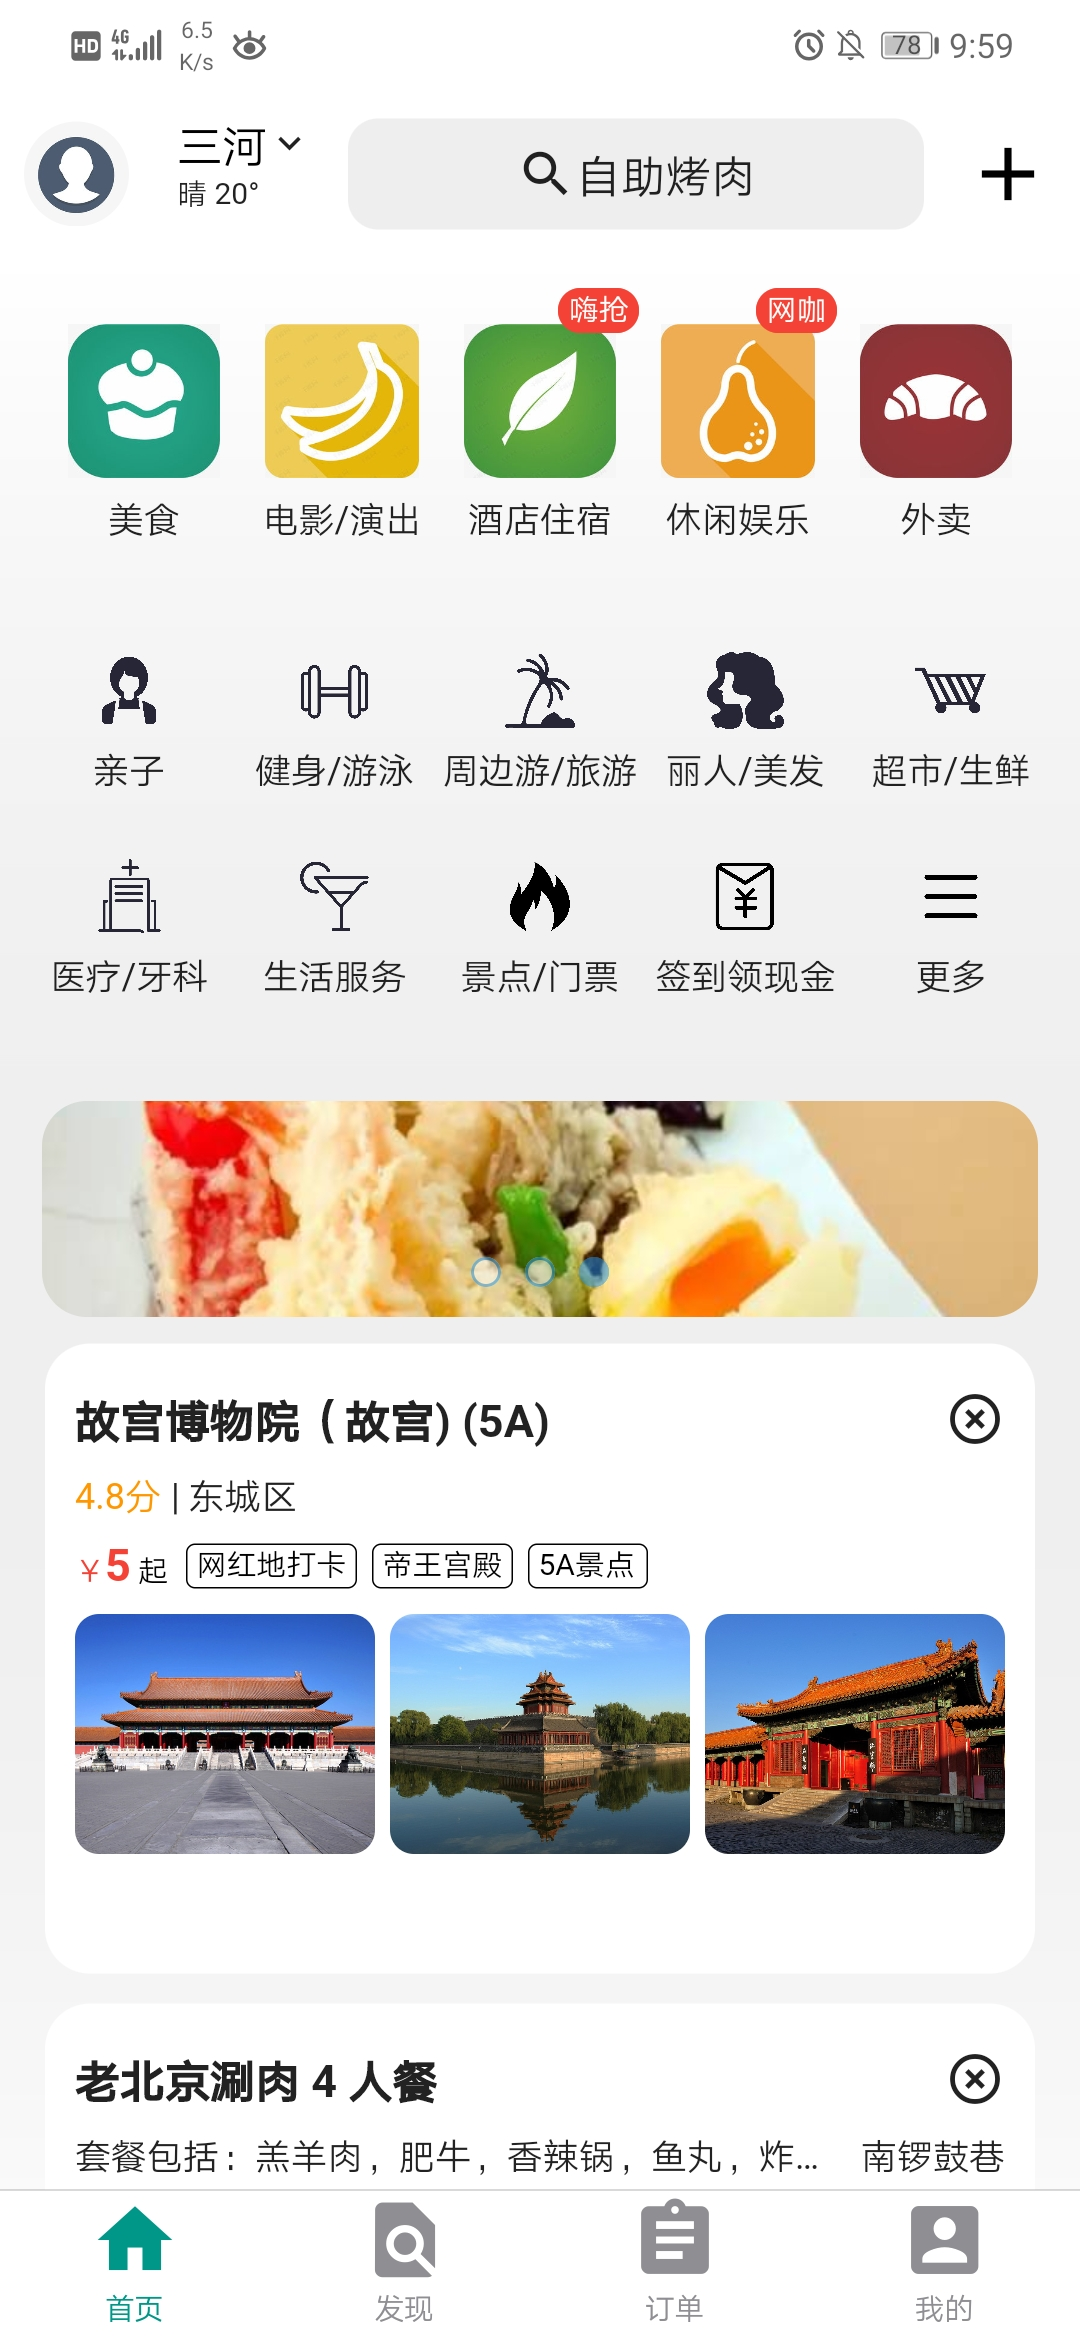
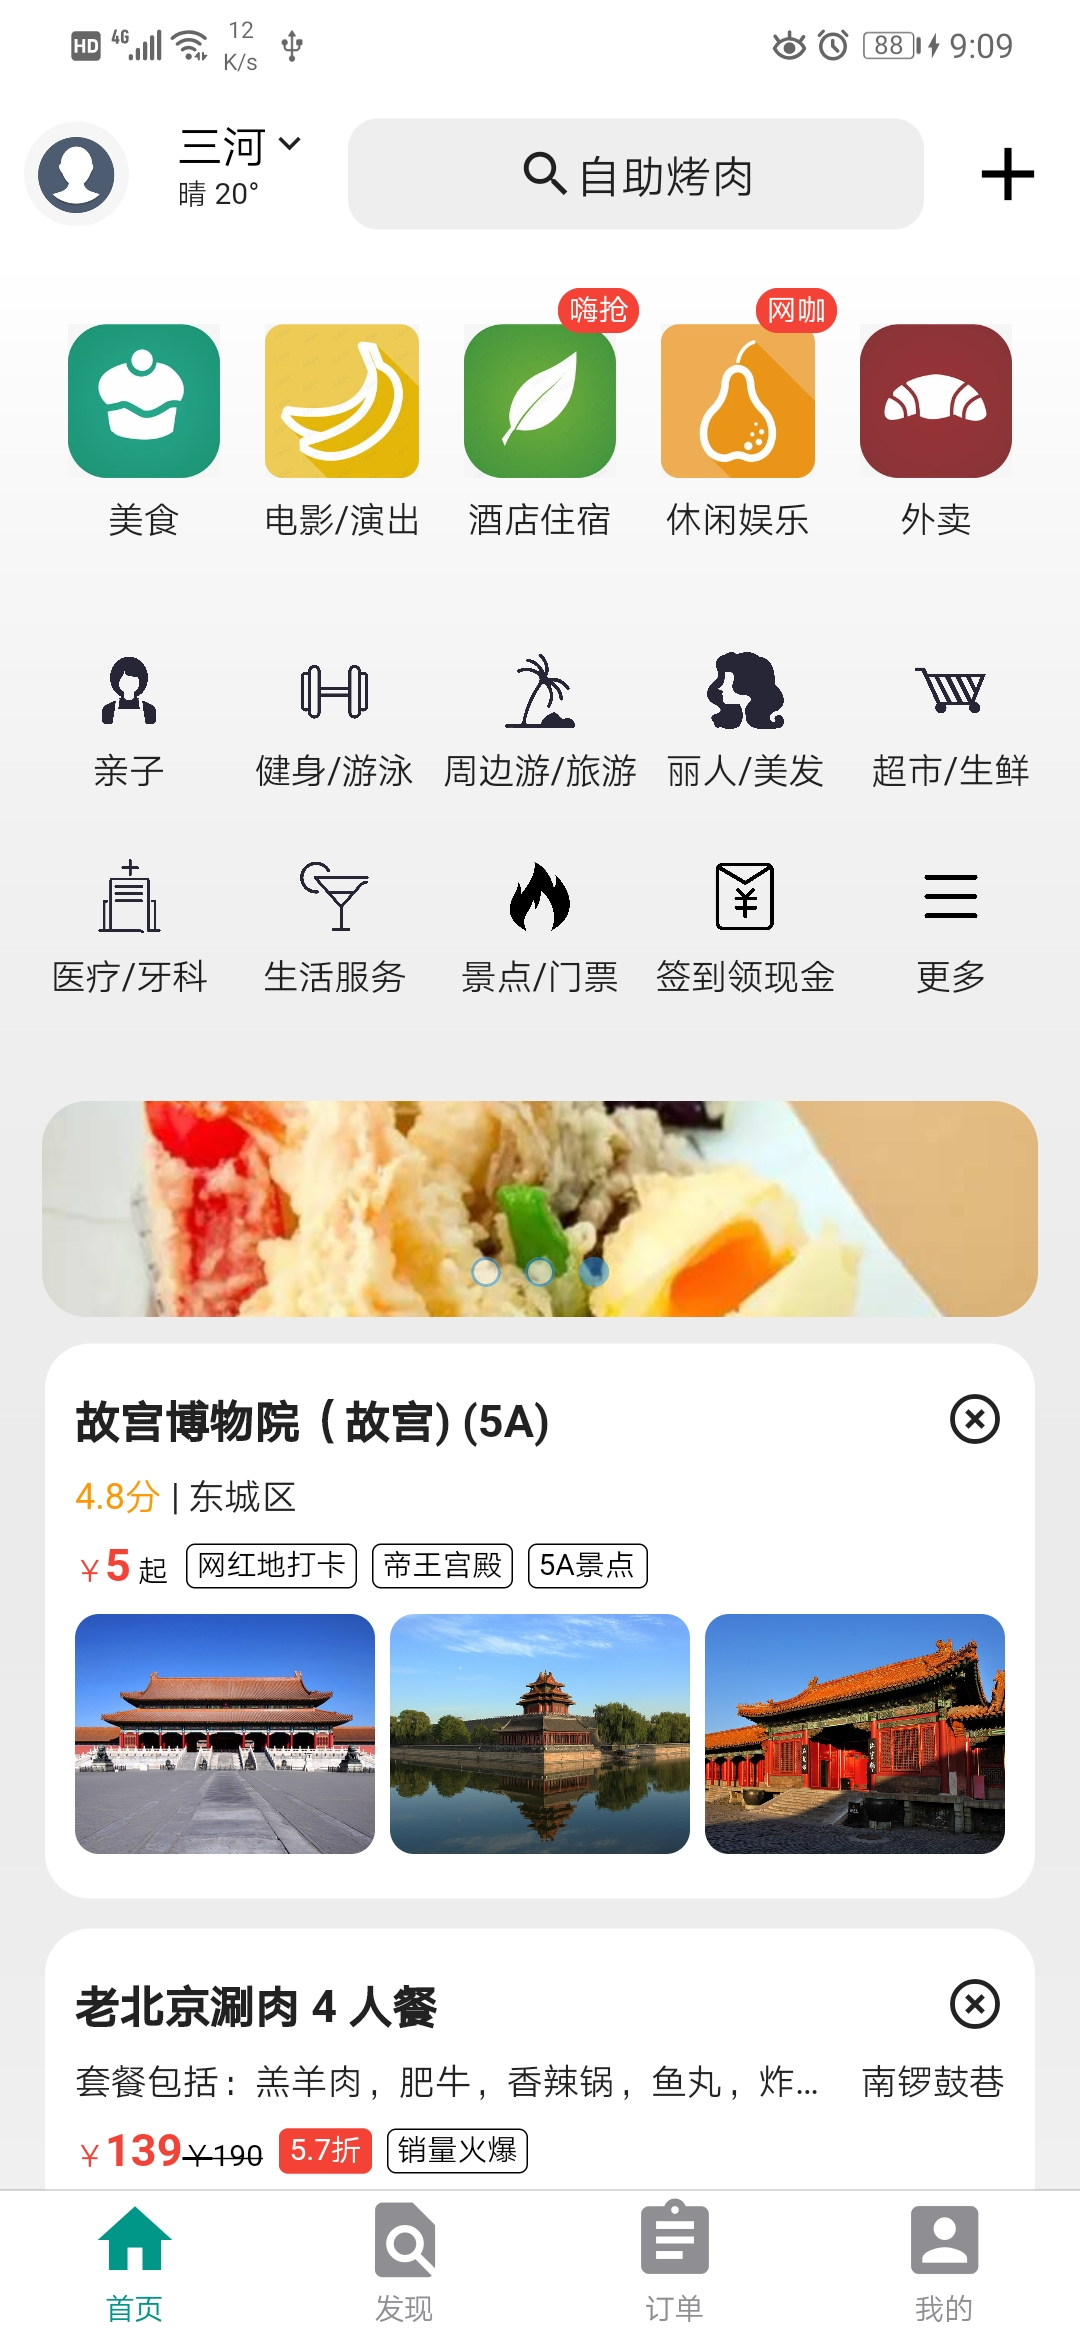
update REDEME

diff --git a/lib/src/Widget/commonWidget.dart b/lib/src/Widget/commonWidget.dart
@@ -139,67 +139,65 @@ class ScenicCard extends StatelessWidget {
       });
     }
 
-    return Container(
-      height: 220.0,
-      child: Card(
-        shape: const RoundedRectangleBorder(
-          borderRadius: BorderRadius.all(Radius.circular(15.0)),
-        ),
-        elevation: 0.0,
-        margin: const EdgeInsets.symmetric(horizontal: 15.0, vertical: 5.0),
-        color: Colors.white,
-        child: Padding(
-          padding: const EdgeInsets.only(top: 15.0, left: 10.0, right: 10.0),
-          child: Column(
-            crossAxisAlignment: CrossAxisAlignment.start,
-            children: <Widget>[
-              Row(
-                mainAxisAlignment: MainAxisAlignment.spaceBetween,
-                children: <Widget>[
-                  Text(
-                    title,
-                    style: CardTitleTextStyle,
-                  ),
-                  Icon(
-                    Icons.highlight_off,
-                    size: 20.0,
-                  ),
-                ],
-              ),
-              SizedBox(
-                height: 7.0,
-              ),
-              Row(
-                children: <Widget>[
-                  Text(
-                    score,
-                    style: GradeTextStyle,
-                  ),
-                  Text(
-                    address,
-                    style: BehindGradeTextStyle,
-                  )
-                ],
-              ),
-              SizedBox(
-                height: 7.0,
-              ),
-              Row(
-                children: tagList,
-              ),
-              SizedBox(
-                height: 7.0,
-              ),
-              Row(
-                mainAxisAlignment: MainAxisAlignment.spaceBetween,
-                children: <Widget>[
-                  _buildImage(imageWidth, imageHeight, imageUrls[0]),
-                  _buildImage(imageWidth, imageHeight, imageUrls[1]),
-                  _buildImage(imageWidth, imageHeight, imageUrls[2]),
-                ],
-              )
-            ],
-          ),
+    return Card(
+      shape: const RoundedRectangleBorder(
+        borderRadius: BorderRadius.all(Radius.circular(15.0)),
+      ),
+      elevation: 0.0,
+      margin: const EdgeInsets.symmetric(horizontal: 15.0, vertical: 5.0),
+      color: Colors.white,
+      child: Padding(
+        padding: const EdgeInsets.only(top: 15.0, left: 10.0, right: 10.0),
+        child: Column(
+          crossAxisAlignment: CrossAxisAlignment.start,
+          children: <Widget>[
+            Row(
+              mainAxisAlignment: MainAxisAlignment.spaceBetween,
+              children: <Widget>[
+                Text(
+                  title,
+                  style: CardTitleTextStyle,
+                ),
+                Icon(
+                  Icons.highlight_off,
+                  size: 20.0,
+                ),
+              ],
+            ),
+            SizedBox(
+              height: 7.0,
+            ),
+            Row(
+              children: <Widget>[
+                Text(
+                  score,
+                  style: GradeTextStyle,
+                ),
+                Text(
+                  address,
+                  style: BehindGradeTextStyle,
+                )
+              ],
+            ),
+            SizedBox(
+              height: 7.0,
+            ),
+            Row(
+              children: tagList,
+            ),
+            SizedBox(
+              height: 7.0,
+            ),
+            Row(
+              mainAxisAlignment: MainAxisAlignment.spaceBetween,
+              children: <Widget>[
+                _buildImage(imageWidth, imageHeight, imageUrls[0]),
+                _buildImage(imageWidth, imageHeight, imageUrls[1]),
+                _buildImage(imageWidth, imageHeight, imageUrls[2]),
+              ],
+            ),
+            SizedBox(height: 15,)
+          ],
         ),
       ),
     );
@@ -240,82 +238,80 @@ class BigPictureCateCard extends StatelessWidget {
       });
     }
 
-    return Container(
-      height: 340.0,
-      child: Card(
-        shape: const RoundedRectangleBorder(
-          borderRadius: BorderRadius.all(Radius.circular(15.0)),
-        ),
-        elevation: 0.0,
-        margin: const EdgeInsets.symmetric(horizontal: 15.0, vertical: 5.0),
-        color: Colors.white,
-        child: Padding(
-          padding: const EdgeInsets.only(top: 15.0, left: 10.0, right: 10.0),
-          child: Column(
-            crossAxisAlignment: CrossAxisAlignment.start,
-            children: <Widget>[
-              ///标题
-              Row(
-                mainAxisAlignment: MainAxisAlignment.spaceBetween,
-                children: <Widget>[
-                  Text(
-                    title,
-                    style: CardTitleTextStyle,
-                  ),
-                  Icon(
-                    Icons.highlight_off,
-                    size: 20.0,
-                  ),
-                ],
-              ),
-              SizedBox(
-                height: 7.0,
-              ),
+    return Card(
+      shape: const RoundedRectangleBorder(
+        borderRadius: BorderRadius.all(Radius.circular(15.0)),
+      ),
+      elevation: 0.0,
+      margin: const EdgeInsets.symmetric(horizontal: 15.0, vertical: 5.0),
+      color: Colors.white,
+      child: Padding(
+        padding: const EdgeInsets.only(top: 15.0, left: 10.0, right: 10.0),
+        child: Column(
+          crossAxisAlignment: CrossAxisAlignment.start,
+          children: <Widget>[
+            ///标题
+            Row(
+              mainAxisAlignment: MainAxisAlignment.spaceBetween,
+              children: <Widget>[
+                Text(
+                  title,
+                  style: CardTitleTextStyle,
+                ),
+                Icon(
+                  Icons.highlight_off,
+                  size: 20.0,
+                ),
+              ],
+            ),
+            SizedBox(
+              height: 7.0,
+            ),
 
-              ///套餐包含与地址
-              Row(
-                mainAxisAlignment: MainAxisAlignment.spaceBetween,
-                children: <Widget>[
-                  SizedBox(
-                    width: MediaQuery.of(context).size.width - 100,
-                    child: Text(
-                      content,
-                      style: BehindGradeTextStyle,
-                      overflow: TextOverflow.ellipsis,
-                    ),
-                  ),
-                  Text(
-                    address,
+            ///套餐包含与地址
+            Row(
+              mainAxisAlignment: MainAxisAlignment.spaceBetween,
+              children: <Widget>[
+                SizedBox(
+                  width: MediaQuery.of(context).size.width - 100,
+                  child: Text(
+                    content,
                     style: BehindGradeTextStyle,
+                    overflow: TextOverflow.ellipsis,
                   ),
-                ],
-              ),
-              SizedBox(
-                height: 7.0,
-              ),
+                ),
+                Text(
+                  address,
+                  style: BehindGradeTextStyle,
+                ),
+              ],
+            ),
+            SizedBox(
+              height: 7.0,
+            ),
 
-              ///价格与标签
-              Row(
-                children: tagList,
-              ),
-              SizedBox(
-                height: 7.0,
-              ),
-              Row(
-                mainAxisAlignment: MainAxisAlignment.spaceBetween,
-                children: <Widget>[
-                  _buildImage(imageWidth * 2, imageHeight * 2, imageUrls[0]),
-                  Column(
-                    mainAxisAlignment: MainAxisAlignment.spaceBetween,
-                    children: <Widget>[
-                      _buildImage(imageWidth, imageHeight, imageUrls[1]),
-                      _buildImage(imageWidth, imageHeight, imageUrls[2]),
-                    ],
-                  ),
-                ],
-              )
-            ],
-          ),
+            ///价格与标签
+            Row(
+              children: tagList,
+            ),
+            SizedBox(
+              height: 7.0,
+            ),
+            Row(
+              mainAxisAlignment: MainAxisAlignment.spaceBetween,
+              children: <Widget>[
+                _buildImage(imageWidth * 2, imageHeight * 2, imageUrls[0]),
+                Column(
+                  mainAxisAlignment: MainAxisAlignment.spaceBetween,
+                  children: <Widget>[
+                    _buildImage(imageWidth, imageHeight, imageUrls[1]),
+                    _buildImage(imageWidth, imageHeight, imageUrls[2]),
+                  ],
+                ),
+              ],
+            ),
+            SizedBox(height: 15,)
+          ],
         ),
       ),
     );

diff --git a/lib/src/tabScaffold.dart b/lib/src/tabScaffold.dart
@@ -14,30 +14,30 @@ class _TabScaffoldState extends State<TabScaffold> {
   int _selectedIndex = 0;
 
   final bodys = [
-    HomePage(),
-    FindPage(),
-    OrderPage(),
-    UserPage(),
+    HomePage(),     //home界面
+    FindPage(),     //发现界面
+    OrderPage(),    //订单界面
+    UserPage(),     //用户界面
   ];
 
   @override
   Widget build(BuildContext context) {
     return Scaffold(
       bottomNavigationBar: CupertinoTabBar(
-        backgroundColor: Colors.white,
-        activeColor: Colors.teal,
-        currentIndex: _selectedIndex,
-        onTap: (index) {
+        backgroundColor: Colors.white,    //底部导航栏背景色
+        activeColor: Colors.teal,         //被选中的tabbar背景色
+        currentIndex: _selectedIndex,     //当前被选中的tabbar的序号
+        onTap: (index) {      //tabbar点击事件
           setState(() {
-            _selectedIndex = index;
+            _selectedIndex = index;     //将当前被选中序号更新成被点击的tabbar的序号，并通知界面刷新
           });
         },
-        items: const <BottomNavigationBarItem>[
+        items: const <BottomNavigationBarItem>[   //底部显示的tabbar
           BottomNavigationBarItem(
               icon: Icon(
-                Icons.home,
+                Icons.home,   //tabbar图标
               ),
-              title: Text("首页")),
+              title: Text("首页")),   //tabbar标题
           BottomNavigationBarItem(
               icon: Icon(
                 Icons.find_in_page,
@@ -55,7 +55,7 @@ class _TabScaffoldState extends State<TabScaffold> {
               title: Text("我的")),
         ],
       ),
-      body: bodys[_selectedIndex],
+      body: bodys[_selectedIndex],    //底部导航栏对应的界面
     );
   }
 }

diff --git a/lib/main.dart b/lib/main.dart
@@ -1,5 +1,4 @@
 import 'dart:io';
-
 import 'package:flutter/cupertino.dart';
 import 'package:flutter/material.dart';
 import 'package:flutter/services.dart';
@@ -31,6 +30,10 @@ class MyApp extends StatelessWidget {
         GlobalMaterialLocalizations.delegate,
         GlobalWidgetsLocalizations.delegate,
         DefaultCupertinoLocalizations.delegate,
+      ],
+      supportedLocales: [
+        const Locale('en'), // English
+        const Locale('zh'), // Chinese
       ],
       home: TabScaffold(),
     );

diff --git a/lib/src/Style/myTheme.dart b/lib/src/Style/myTheme.dart
@@ -8,6 +8,6 @@ const GradientDecoration = BoxDecoration(
           gradient: const LinearGradient(
             begin: Alignment.topCenter,
             end: Alignment.bottomCenter,
-            colors: [Colors.white, Color.fromARGB(1, 200, 200, 200)]
+            colors: [Colors.white, Color.fromARGB(50, 200, 200, 200)]
           )
         );

diff --git a/lib/src/Route/homePage.dart b/lib/src/Route/homePage.dart
@@ -103,7 +103,7 @@ class _HomePageState extends State<HomePage> {
                   return TextPage();
                 }));
               },
-            )
+            ),
           ],
         ),
       ),

diff --git a/lib/src/Route/searchPage.dart b/lib/src/Route/searchPage.dart
@@ -58,6 +58,7 @@ class _SearchPageState extends State<SearchPage> {
   }
 
   Widget _buildDefaultBody() {
+    
     return Padding(
       padding: const EdgeInsets.all(10),
       child: Column(

diff --git a/README.md b/README.md
@@ -11,6 +11,8 @@ Flutter 仿美团demo
 
 <img src="https://github.com/spadekmit/Flutter_MeiTuan/raw/master/screenshot/5.jpg" width="300"/>
 
+<img src="https://github.com/spadekmit/Flutter_MeiTuan/raw/master/screenshot/6.jpg" width="300"/>   <img src="https://github.com/spadekmit/Flutter_MeiTuan/raw/master/screenshot/7.jpg" width="300"/>
+
 ## Getting Started
 
 This project is a starting point for a Flutter application.
